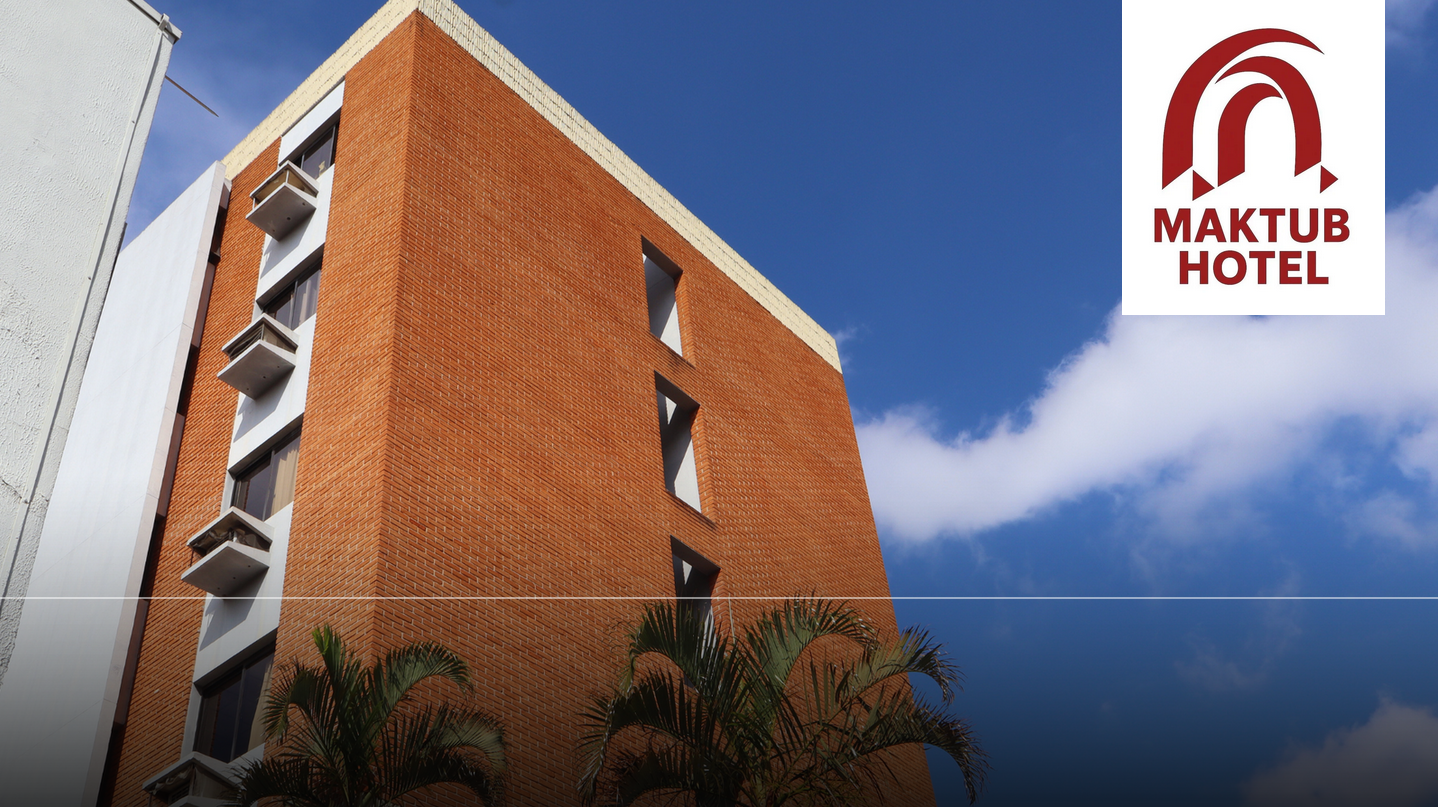
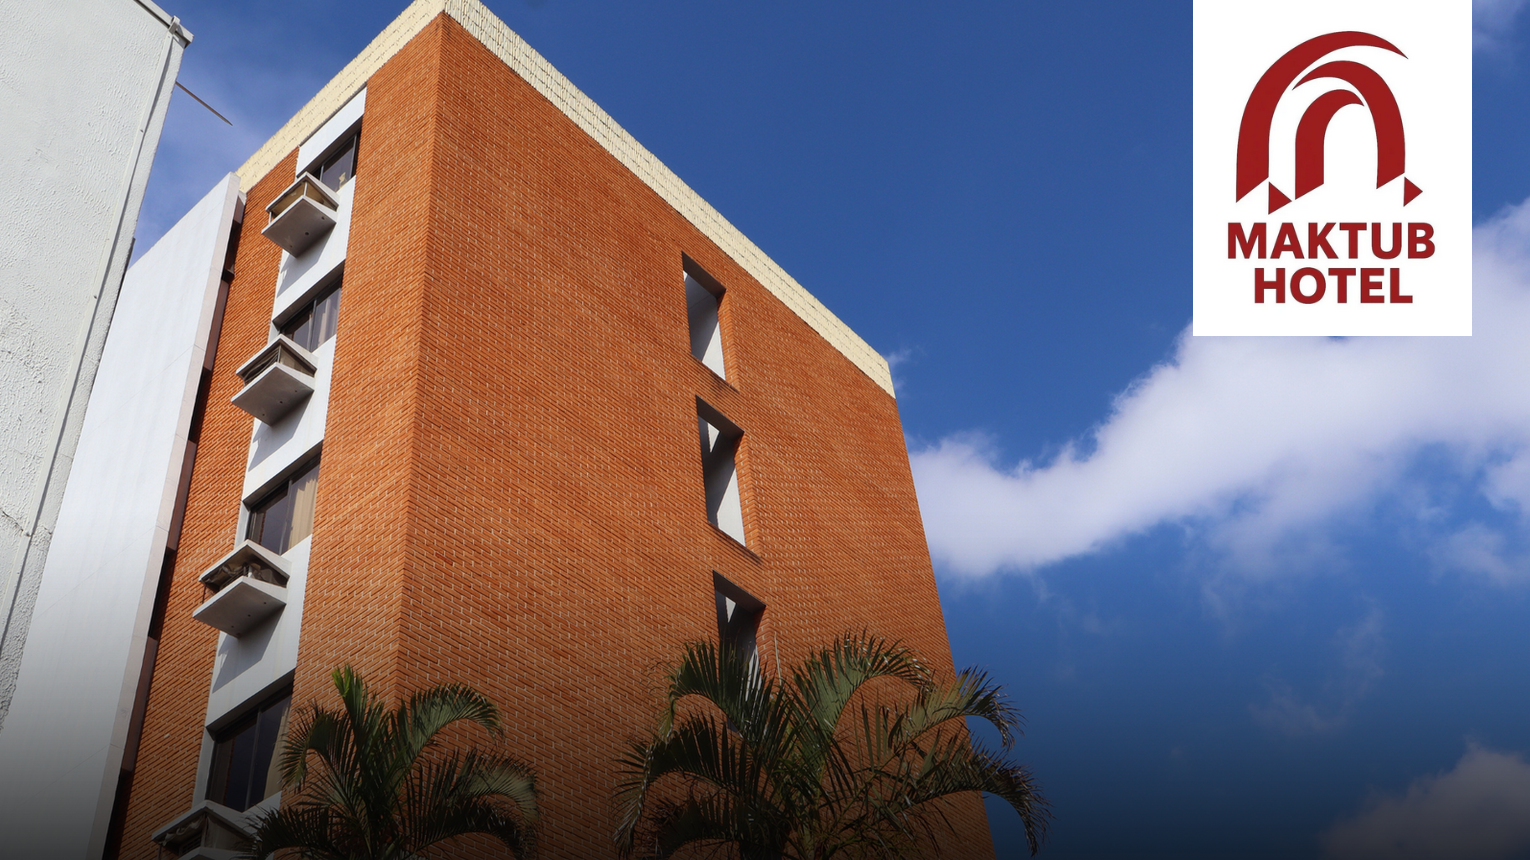
Estilização e display contéudo Header

diff --git a/static/css/style.css b/static/css/style.css
@@ -39,20 +39,20 @@
 /* ==== Header ==== */
 /* Background Header */
 header {
-    position: relative;
-
     color: var(--white-text);
     background-color: var(--complementar-color);
 }
 header>.header-main {
-    /* display: flex;
+    position: relative;
+
+    display: flex;
     flex-direction: column;
-    align-items: flex-end;
+    align-items: stretch;
     justify-content: end;
 
 
-    padding: 200px; */
     height: 70vh;
+    min-height: 790px;
 
     background-image: url("/static/imgs/maktubedificio_desktop.png");
     background-position: right top;
@@ -60,6 +60,34 @@ header>.header-main {
     background-repeat: no-repeat;
 
 }
+header .title {
+    display: flex;
+    flex-direction: column;
+    align-items: flex-end;
+
+    padding: 0px 80px;
+    border-bottom: 2px solid rgb(255, 255, 255);
+}
+header h1 {
+    color: var(--main-color);
+
+    font-size: clamp(3.2em, 4vw, 4em);
+}
+header p {
+    margin-bottom: 30px;
+    font-size: clamp(2em, 2.8vw, 2.5em);
+
+}
+
+header .button {
+    display: flex;
+    justify-content: flex-end;
+    padding: 60px 190px 60px 0px;
+}
+header a.btn-reserva {
+    transform: scale(1.4);
+}
+
 @media (max-width: 768px) {
     header > .header-main {
         background-image: url('/static/imgs/maktubedificio_mobile.png');
@@ -67,7 +95,8 @@ header>.header-main {
 }
 @media (min-width: 1500px) {
     header>.header-main {
-        height: 90vh;
+        min-height: 520px;
+        height: 100vh;
     }
 
 }
@@ -265,7 +294,7 @@ main>section.end {
     }
     .end>div.right a {
         transform: scale(1.3);
-        
+
         margin: 0;
         margin-left: 30px;
     }

diff --git a/index.html b/index.html
@@ -11,10 +11,12 @@
     <header>
         <div class="header-main">
             <div class="title">
-                <h1>O Maktub voltou!</h1>
-                <p>O essencial bem feito, com o <br> cuidado que só o Maktub oferece</p>
+                <div class="conteiner">
+                    <h1>O Maktub voltou!</h1>
+                    <p>O essencial bem feito, com o <br> cuidado que só o Maktub oferece.</p>
+                </div>
             </div>
-            <a href="" class="btn-reserva">Faça sua <br> reserva!</a>
+            <div class="button"><a href="" class="btn-reserva">Faça sua <br> reserva!</a></div>
         </div>
         
     </header>
